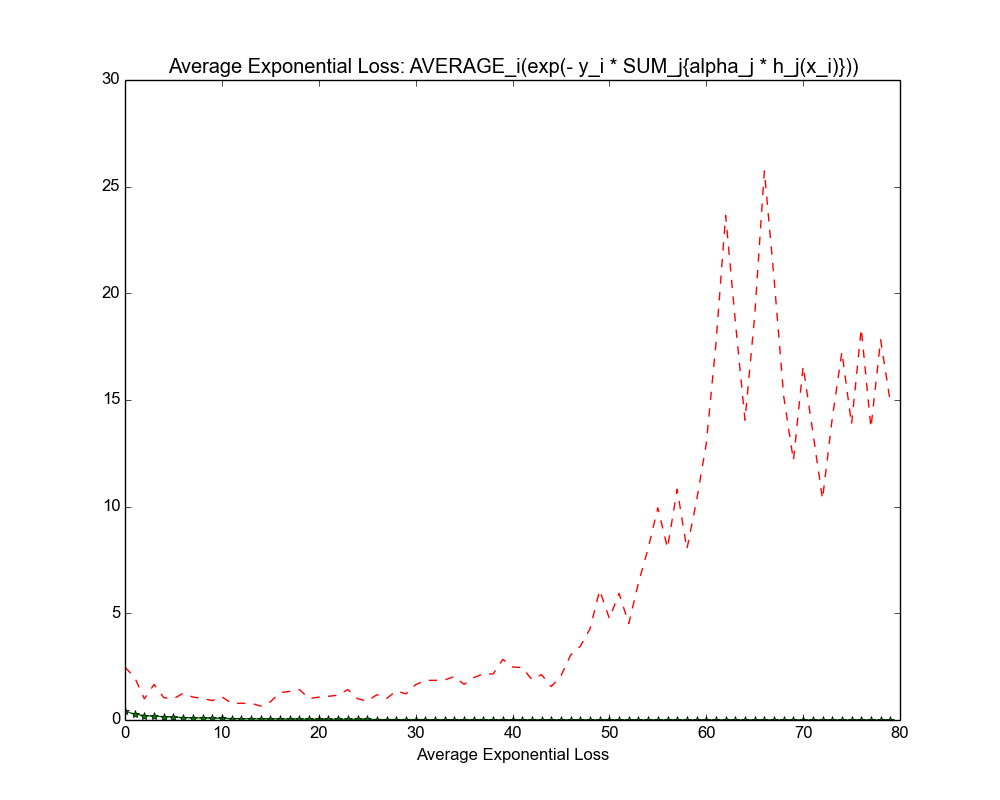
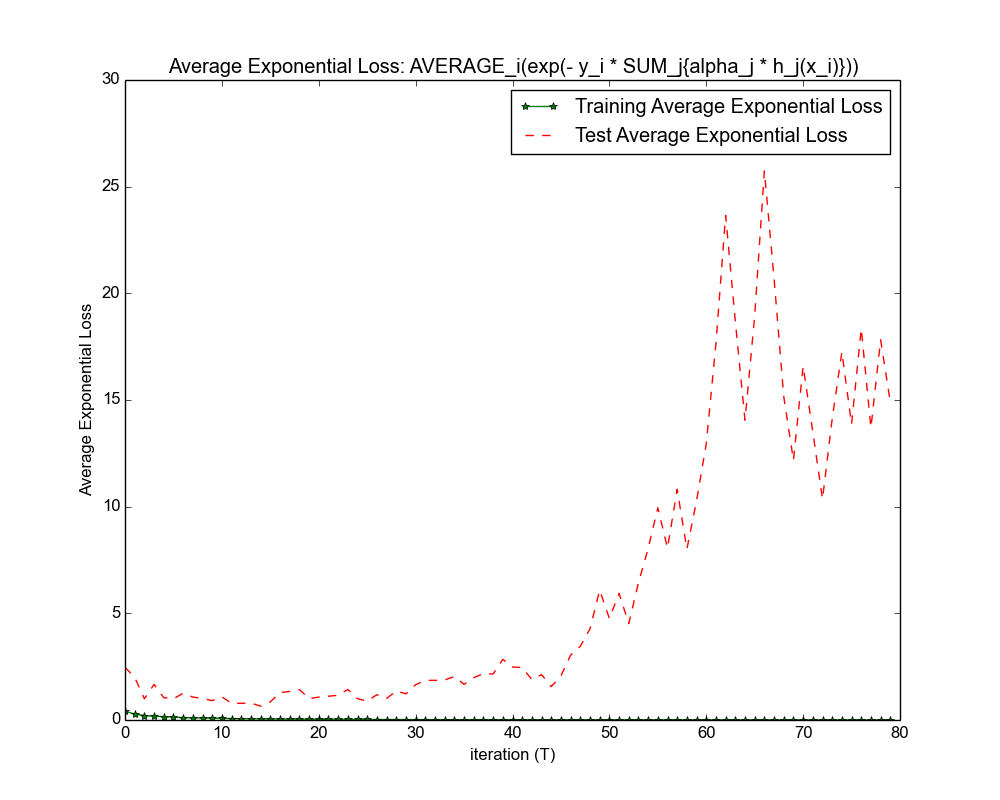
Final finish q5.

Changed region(s): [[0.496, 0.0938, 0.899, 0.2188], [0.062, 0.375, 0.093, 0.625], [0.403, 0.9375, 0.62, 0.9688]]

diff --git a/ml_hw4/q5_ada_boost.py b/ml_hw4/q5_ada_boost.py
@@ -7,7 +7,7 @@ if not SHOW:
 
 from matplotlib import pyplot as plt
 import math
-import data
+import mnist_data
 import numpy as np
 
 
@@ -123,6 +123,9 @@ class AdaBoostHalfSpaces(object):
         assert abs(np.sum(self._Dt) - Z_t) < 1e-2
         self._Dt /= np.sum(self._Dt)
 
+    def pixel_options_lengths(self):
+        return map(len, self._pixels_options)
+
 
 class WeightedHalfSpacesPredictor(object):
     """
@@ -133,6 +136,12 @@ class WeightedHalfSpacesPredictor(object):
     def __init__(self):
         self._hs = []
         self._alphas = []
+
+    def alphas(self):
+        return list(self._alphas)
+
+    def ks(self):
+        return [h.k() for h in self._hs]
 
     def predict(self, data):
         return np.sign(self._weighted_sum(data))
@@ -209,20 +218,21 @@ class HalfSpace(object):
 
 def main(output_directory):
     start = time.time()
-    boost = AdaBoostHalfSpaces(data.train_data, data.train_labels)
+    boost = AdaBoostHalfSpaces(mnist_data.train_data, mnist_data.train_labels)
     T = 80
     train_error_rates = []
     test_error_rates = []
     train_exp_losses = []
     test_exp_losses = []
     for i in xrange(T):
-        print 'i=', i
+        if i % 10 == 0:
+            print 'i=', i
         boost.step()
         predictor = boost.predictor()
-        train_error = predictor.error_rate(data.train_data, data.train_labels)
-        test_error = predictor.error_rate(data.test_data, data.test_labels)
-        train_avg_exp_loss = predictor.average_exponential_loss(data.train_data, data.train_labels)
-        test_avg_exp_loss = predictor.average_exponential_loss(data.test_data, data.test_labels)
+        train_error = predictor.error_rate(mnist_data.train_data, mnist_data.train_labels)
+        test_error = predictor.error_rate(mnist_data.test_data, mnist_data.test_labels)
+        train_avg_exp_loss = predictor.average_exponential_loss(mnist_data.train_data, mnist_data.train_labels)
+        test_avg_exp_loss = predictor.average_exponential_loss(mnist_data.test_data, mnist_data.test_labels)
         train_error_rates.append(train_error)
         test_error_rates.append(test_error)
         train_exp_losses.append(train_avg_exp_loss)
@@ -230,23 +240,26 @@ def main(output_directory):
     plt.figure(figsize=(10, 8))
     plt.title("Error rate as function of iteration")
     plt.xlabel("iteration")
-    plt.xlabel("ErroRate")
+    plt.ylabel("ErroRate")
     plt.plot(train_error_rates, 'g-*', label="Training Error Rate")
     plt.plot(test_error_rates, 'r--', label="Test Error Rate")
+    plt.legend()
     plt.savefig(os.path.join(output_directory, "error_rate.png"))
     if SHOW:
         plt.show()
     plt.cla()
     plt.title("Average Exponential Loss: AVERAGE_i(exp(- y_i * SUM_j{alpha_j * h_j(x_i)}))")
     plt.xlabel("iteration (T)")
-    plt.xlabel("Average Exponential Loss")
+    plt.ylabel("Average Exponential Loss")
     plt.plot(train_exp_losses, 'g-*', label="Training Average Exponential Loss")
     plt.plot(test_exp_losses, 'r--', label="Test Average Exponential Loss")
+    plt.legend()
     plt.savefig(os.path.join(output_directory, "average_exponential_loss.png"))
     if SHOW:
         plt.show()
     print 'Total RunTime', time.time() - start
 
+    print 'alphas', boost.predictor().alphas()
 
 if __name__ == '__main__':
     main("outputs")

diff --git a/ml_hw4/mnist_data.py b/ml_hw4/mnist_data.py
@@ -1,21 +1,28 @@
-#!/usr/bin/python2.7
-import sys
-import os
-# Allow any further imports to happen smoothly.
-sys.path.insert(0, os.path.dirname(__file__))
-import q5_ada_boost
+from numpy import *
+import numpy.random
+from sklearn.datasets import fetch_mldata
+import sklearn.preprocessing
 
+mnist = fetch_mldata('MNIST original')
+data = mnist['data']
+labels = mnist['target']
 
-def main(argv):
-    if len(argv) != 2:
-        print "Usage: {} <output-directory>".format(__file__)
-        sys.exit(2)
-    output_directory = argv[1]
-    if not os.path.exists(output_directory):
-        os.mkdir(output_directory)
-    assert os.path.isdir(output_directory)
-    q5_ada_boost.main(output_directory)
+neg, pos = 0,8
+train_idx = numpy.random.RandomState(0).permutation(where((labels[:60000] == neg) | (labels[:60000] == pos))[0])
+test_idx = numpy.random.RandomState(0).permutation(where((labels[60000:] == neg) | (labels[60000:] == pos))[0])
 
+train_data_size = 2000
+train_data_unscaled = data[train_idx[:train_data_size], :].astype(float)
+train_labels = (labels[train_idx[:train_data_size]] == pos)*2-1
 
-if __name__ == '__main__':
-    main(sys.argv)
+#validation_data_unscaled = data[train_idx[6000:], :].astype(float)
+#validation_labels = (labels[train_idx[6000:]] == pos)*2-1
+
+test_data_size = 2000
+test_data_unscaled = data[60000+test_idx[:test_data_size], :].astype(float)
+test_labels = (labels[60000+test_idx[:test_data_size]] == pos)*2-1
+
+# Preprocessing
+train_data = sklearn.preprocessing.scale(train_data_unscaled, axis=0, with_std=False)
+#validation_data = sklearn.preprocessing.scale(validation_data_unscaled, axis=0, with_std=False)
+test_data = sklearn.preprocessing.scale(test_data_unscaled, axis=0, with_std=False)

diff --git a/ml_hw4/main.py b/ml_hw4/main.py
@@ -1,0 +1,21 @@
+#!/usr/bin/python2.7
+import sys
+import os
+# Allow any further imports to happen smoothly.
+sys.path.insert(0, os.path.dirname(__file__))
+import q5_ada_boost
+
+
+def main(argv):
+    if len(argv) != 2:
+        print "Usage: {} <output-directory>".format(__file__)
+        sys.exit(2)
+    output_directory = argv[1]
+    if not os.path.exists(output_directory):
+        os.mkdir(output_directory)
+    assert os.path.isdir(output_directory)
+    q5_ada_boost.main(output_directory)
+
+
+if __name__ == '__main__':
+    main(sys.argv)
